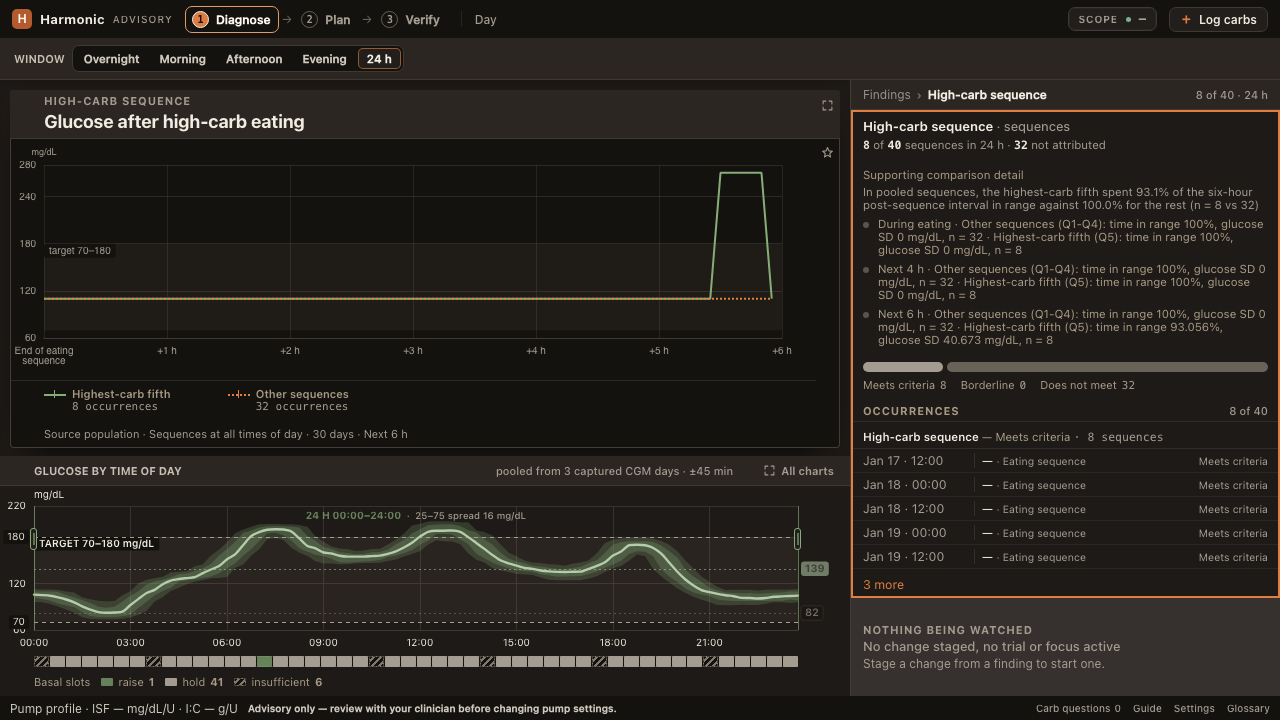
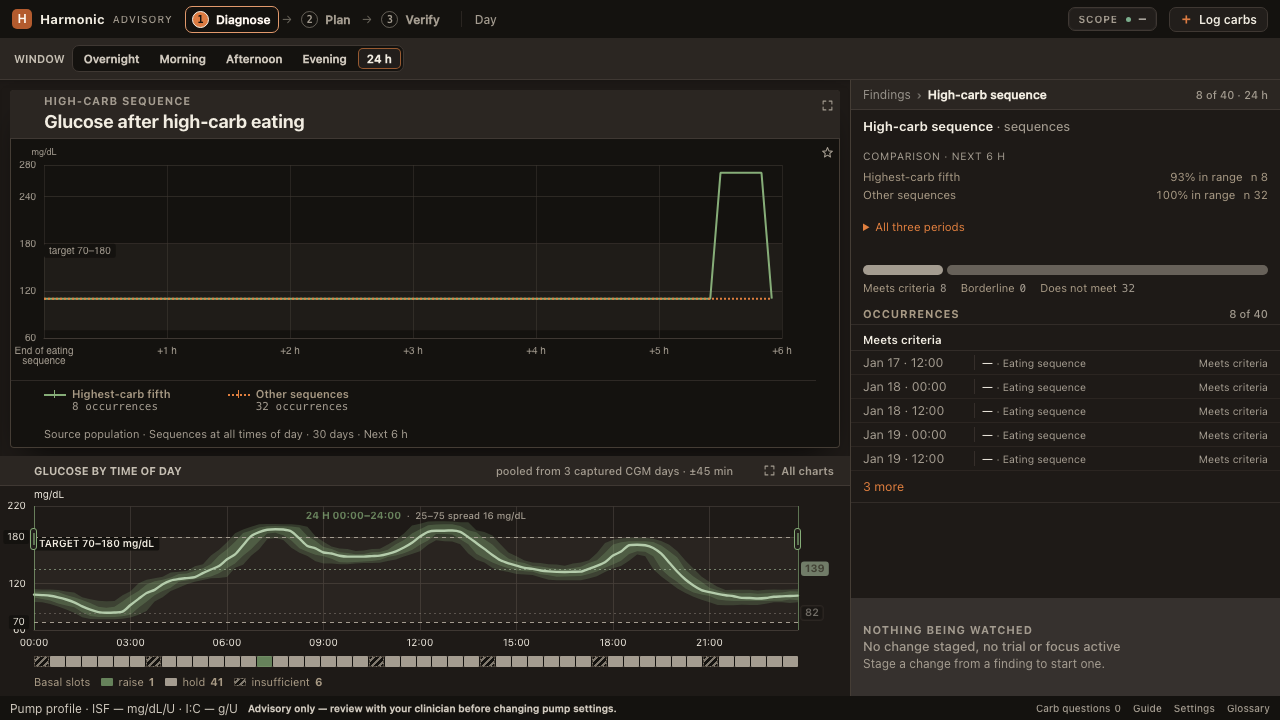
Refresh compact inspector revision evidence

Changed region(s): [[0.6562, 0.1528, 1.0, 0.825], [0.7812, 0.6722, 0.8438, 0.7944], [0.9688, 0.1528, 1.0, 0.1833]]

diff --git a/openspec/changes/high-carb-response/evidence/revision.md b/openspec/changes/high-carb-response/evidence/revision.md
@@ -4,7 +4,7 @@ The High-carb sequence finding uses observed glucose responses for the highest-c
 
 ## Synthetic capture provenance
 
-All images in `rendered/` are unmodified browser captures of manufactured input from `scripts/gen_eating_sequence_fixtures.py`. The base is `e582355532af9c4e422bf5121af8aae6b66af434`; the capture checkout is `647feb2197efa53f4eccfd1f0aa3169ff135b469`, whose product, test and fixture source exactly matches reviewed ticket `d6192126f8f2aa9e80c21e94d25b21aac3b203b6`. Both shells were built before revision capture. No live vendor fetch or personal data was used. PNG dimensions and the browser viewport agree for every listed image.
+All images in `rendered/` are unmodified browser captures of manufactured input from `scripts/gen_eating_sequence_fixtures.py`. The base is `e582355532af9c4e422bf5121af8aae6b66af434`; the capture checkout is `647feb2197efa53f4eccfd1f0aa3169ff135b469`, whose product, test and fixture source exactly matches reviewed ticket `d6192126f8f2aa9e80c21e94d25b21aac3b203b6`. Opening and inspector captures were subsequently refreshed on `c0b3c942223a67b14cfa0bb7601f5f4644716f10` for the compact correction described below. The refreshed v2 opening view includes its pointer readout. Both shells were built before revision capture. No live vendor fetch or personal data was used. PNG dimensions and the browser viewport agree for every listed image.
 
 The before/after opening views use `high_carb_sequence_empty`, the same eligible population and the same viewport. Baseline S155 captures preserve the prior aggregate chart; revision captures show the response chart. The browser flow may leave a different scroll position after fullscreen return.
 
@@ -18,7 +18,7 @@ Additional inspected views: [mobile readout](rendered/readout-mobile.png), [mobi
 
 ## Focused verification
 
-The final reviewed product source passed 10 v1 and 11 v2 browser checks at each of 1280 × 720, 1440 × 900 and 390 × 844, with no failures or skips. They cover source-matched cohort and selected traces, clean/reference and second fired selections, clock scope, singleton and limited observations, gaps, typed errors and stale recovery, fullscreen return and keyboard readout. Commit `b0bf21ee7c631f12b81df94b9e5cefd503d5f3ff` adds direct pointer proof without changing product source: v1 S155 and the v2 scoped-selection/fullscreen test each passed independently at 1280 × 720. Real mouse movement to minute 330 changed both stage and fullscreen readouts to +5 h 30 min, 270 mg/dL (n=8) and 110 mg/dL (n=32). S153, S155, S157 and S158 retain their existing sequence semantics and Repeat eating branches.
+Before the compact-inspector correction, the reviewed product source passed 10 v1 and 11 v2 browser checks at each of 1280 × 720, 1440 × 900 and 390 × 844, with no failures or skips. They cover source-matched cohort and selected traces, clean/reference and second fired selections, clock scope, singleton and limited observations, gaps, typed errors and stale recovery, fullscreen return and keyboard readout. Commit `b0bf21ee7c631f12b81df94b9e5cefd503d5f3ff` adds direct pointer proof without changing product source: v1 S155 and the v2 scoped-selection/fullscreen test each passed independently at 1280 × 720. Real mouse movement to minute 330 changed both stage and fullscreen readouts to +5 h 30 min, 270 mg/dL (n=8) and 110 mg/dL (n=32). S153, S155, S157 and S158 retain their existing sequence semantics and Repeat eating branches.
 
 The final commands use `PLAYWRIGHT_MODULE` from the repository browser-cache helper, `VIEWPORT` for each size, and a fresh `DIAGNOSE_EVIDENCE_DIR`. Browser commands run serially with host permissions:
 
@@ -38,6 +38,31 @@ Review of the integrated branch found a selected singleton with no painted marke
 The Findings fixture generator is a second caller of the shared compactor. Its capture was regenerated and its existing JavaScript mirror updated for the backend-owned short headlines. All 18 sequence QA cases across seven windows compare against the producer output. Independent focused frontend verification passed 166 tests with no skips; the Findings generator drift check passed. Commit `647feb21` corrects the reproduced test-readiness race by waiting for the mounted chart and required options. Both focused v2 tests then passed independently, preserving the selected singleton’s painted-mark assertion.
 
 Both whole-branch review axes converged with zero remaining implementation findings.
+
+## Compact inspector correction
+
+Connor rejected the verbose supporting paragraph and requested Opus 5 high-effort critique. The correction shows two selected-period cohort rows with rounded time in range and actual counts. “All three periods” starts collapsed, preserves its state during selection, and retains every period's TIR, glucose SD, units, counts, unavailable values and complete server summary. Fully unavailable periods say “Not enough data” once; independently available metrics remain readable. The chart still labels its distinct source population.
+
+Expanded rows fit on one line in the 405px desktop inspector (the longest ordinary row measures about 288px); the 365px mobile content wraps. Literal browser expectations pin synthetic values independently of the formatter. Nine private capture tests moved byte-for-byte into a separately excluded module, retaining both public fixture tests and fixing the public-tree reference failure.
+
+Both review axes converged without actionable findings on `c0b3c942`. Opus's initial critique used repo screenshots; its follow-up could inspect code but could not access scratch screenshots. The coordinator and final Astra reviewers inspected those renders directly.
+
+The correction passed 22 Node tests, 13 Python checks and 10 browser checks at 390 × 844 and 1440 × 900. Its follow-up passed 22 Node and 10 browser checks. Independent coordinator checks passed 22 Node and 12 Python tests, then two v1 stories and three v2 cases at 1280 × 720. No failures or skips occurred in these completed checks. All three required sizes cover the amended inspector, alongside retained selection, scope, singleton, fullscreen and unavailable assertions.
+
+| Viewport | Default v1 | Expanded v1 | Default v2 | Expanded v2 |
+| --- | --- | --- | --- | --- |
+| 1280x720 | [Default](rendered/inspector-v1-closed-1280x720.png) | [Expanded](rendered/inspector-v1-open-1280x720.png) | [Default](rendered/inspector-v2-closed-1280x720.png) | [Expanded](rendered/inspector-v2-open-1280x720.png) |
+| 1440x900 | [Default](rendered/inspector-v1-closed-1440x900.png) | [Expanded](rendered/inspector-v1-open-1440x900.png) | [Default](rendered/inspector-v2-closed-1440x900.png) | [Expanded](rendered/inspector-v2-open-1440x900.png) |
+| 390x844 | [Default](rendered/inspector-v1-closed-390x844.png) | [Expanded](rendered/inspector-v1-open-390x844.png) | [Default](rendered/inspector-v2-closed-390x844.png) | [Expanded](rendered/inspector-v2-open-390x844.png) |
+
+Focused commands use the declared VIEWPORT, cached PLAYWRIGHT_MODULE and synthetic fixtures:
+
+```sh
+node --test frontend/diagnose-eating-sequences.test.js frontend/diagnose-behavior-ledger-parity.test.js
+uv run python -m pytest -q tests/test_check_public_links.py::TestRealPublicTree::test_the_materialised_public_tree_has_no_dead_references tests/test_eating_sequence_fixture.py tests/test_eating_sequence_finding_fixture.py
+PAYLOAD=mockups/diagnose-workstation.synthetic/payload.json node --test --test-name-pattern='eating-sequence composition S15[58]' frontend/diagnose-canvas-composition.browser.test.mjs
+node --test --test-name-pattern='v2 Diagnose renders the generated High-carb|v2 High-carb scoped population|v2 High-carb rendered null_period' frontend-v2/desk.browser.test.mjs
+```
 
 ## Aggregate acceptance
 
